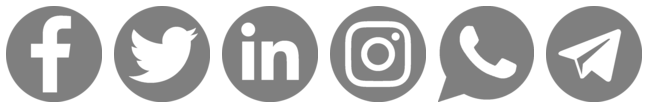
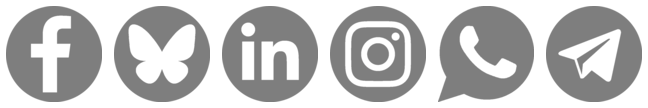
ajout des icônes Bluesky dans le template

Changed region(s): [[0.1852, 0.2222, 0.3086, 0.7778]]

diff --git a/template-CiviVersafix-FR.html b/template-CiviVersafix-FR.html
@@ -528,7 +528,7 @@
       }
 
       twVisible {
-        label: Twitter;
+        label: Bluesky;
         extend: visible
       }
 
@@ -598,7 +598,7 @@
       }
 
       twUrl {
-        label: Lien Twitter;
+        label: Lien Bluesky;
         extend: url
       }
 
@@ -774,7 +774,7 @@
       }
 
       socialBlock twVisible {
-        label: Twitter
+        label: Bluesky
       }
 
       socialBlock inVisible {
@@ -806,7 +806,7 @@
       }
 
       socialBlock twUrl {
-        label: Lien Twitter
+        label: Lien Bluesky
       }
 
       socialBlock inUrl {
@@ -885,7 +885,7 @@
       }
 
       shareBlock twVisible {
-        label: Twitter
+        label: Bluesky
       }
 
       shareBlock inVisible {
